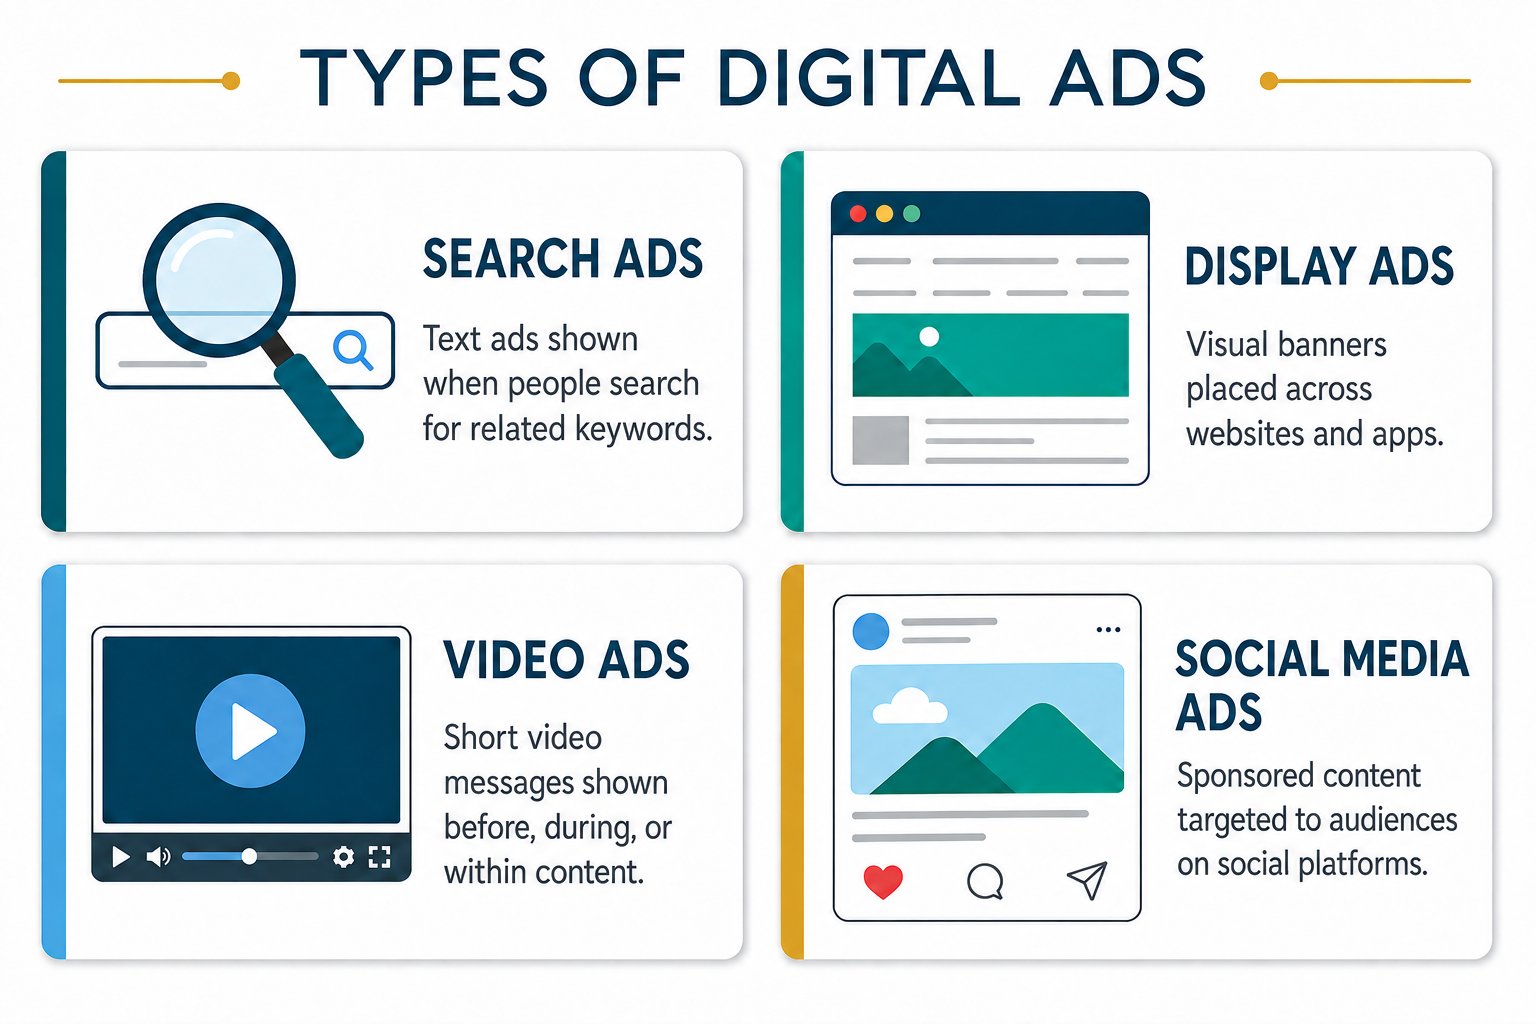
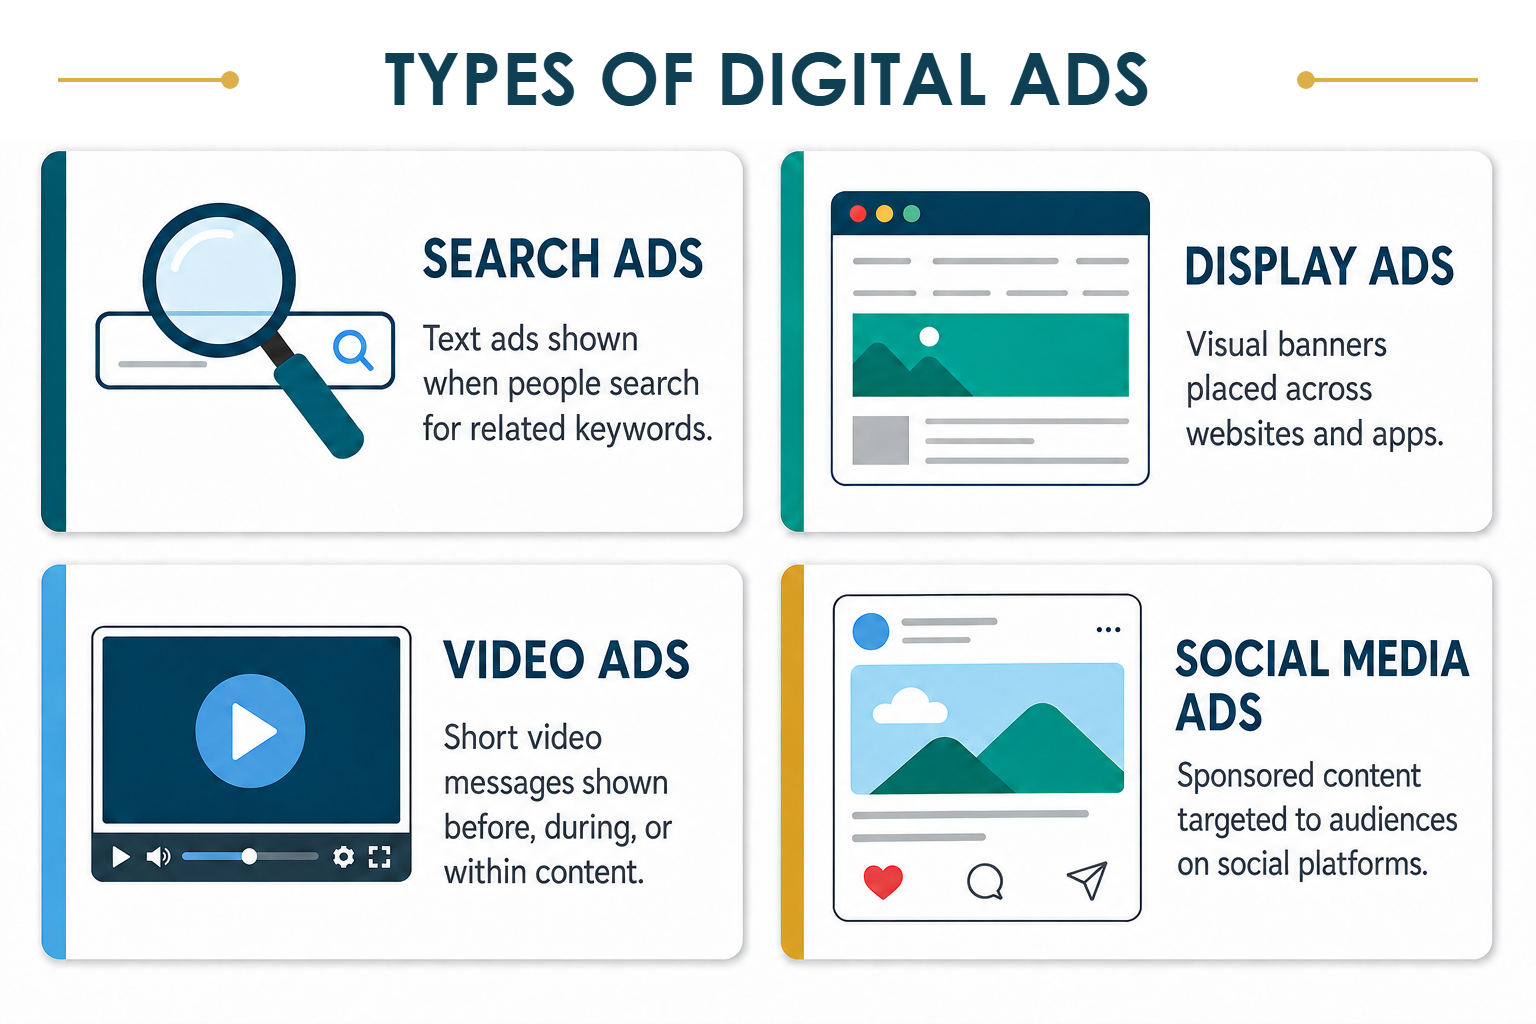
update titles

Changed region(s): [[0.1875, 0.0312, 0.7812, 0.125], [0.8125, 0.0625, 0.9688, 0.0938], [0.0312, 0.0625, 0.1562, 0.0938]]

diff --git a/Week 3/landing-page-elements-break-it-standalone-iframe.html b/Week 3/landing-page-elements-break-it-standalone-iframe.html
@@ -97,8 +97,12 @@
     .integrated-title {
       margin: 0;
       color: var(--teal);
+      font-family: "Century Gothic", "Aptos Display", "Segoe UI", Arial, sans-serif;
       font-size: clamp(25px, 3vw, 36px);
+      font-weight: 700;
+      letter-spacing: .01em;
       line-height: 1.08;
+      text-transform: uppercase;
     }
     .integrated-subtitle {
       grid-area: subtitle;
